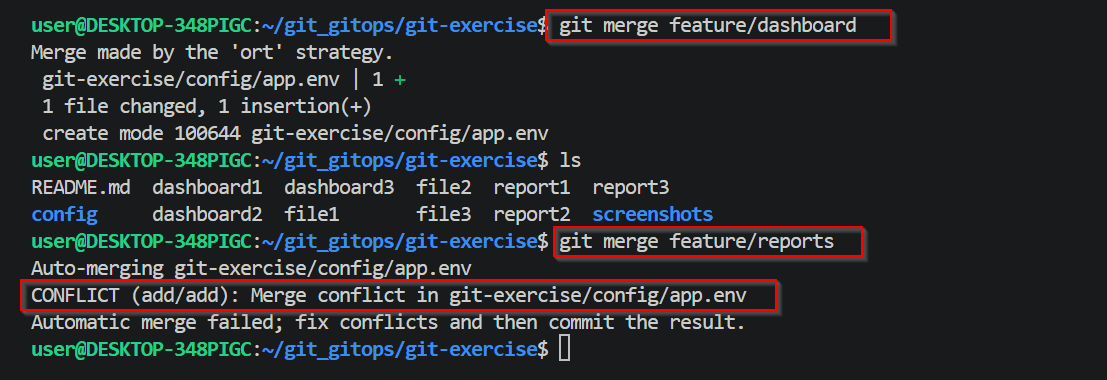
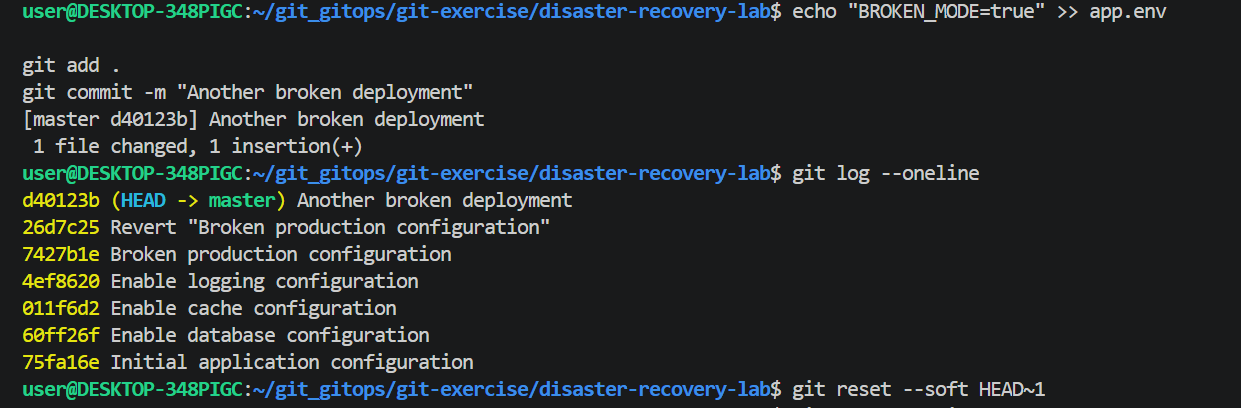
editted some files

Changed region(s): [[0.0, 0.0, 0.9521, 0.9842]]

diff --git a/git-exercise/README.md b/git-exercise/README.md
@@ -11,33 +11,34 @@ In the image below we can see that we have four branches.
 
 ![alt text](image.png)
 
-in the login branch we created three files file1, file2 and file 3
-![alt text](image.png)
+In the login branch we created three files file1, file2 and file 3
+
+![alt text](/git-exercise/screenshots/image.png)
  
 
- i have three commits in the login branch.
+we created three commits in the login branch.
 
-![alt text](image-1.png)
+![alt text](/git-exercise/screenshots/image-1.png)
 
 
-in the dashboard branch we created 3 files, dashboard1, dashboard2 and dashboard3
+In the dashboard branch we created 3 files, dashboard1, dashboard2 and dashboard3
 
-![alt text](image3.png)
+![alt text](/git-exercise/screenshots/image3.png)
 
 the git logs for feature/dashboard we have three commits
 
-![alt text](image4.png)
+![alt text](/git-exercise/screenshots/image4.png)
 
 In the reports branch we created 3 files , reports1, reports2 and report3
 
-![alt text](image5.png)
+![alt text](/git-exercise/screenshots/image5.png)
 
-the reports branch has three commits
+The feature/reports branch has three commits
 
-![alt text](image6.png)
+![alt text](/git-exercise/screenshots/image6.png)
 
 
-we merge all the branches to develop branch.
+We merge all the branches to develop branch.
 as we can see we have all the files that we created from each branch onto the develop branch.
 
 ![alt text](image.png)
@@ -53,7 +54,7 @@ As we can see, the main branch contains all the files from all the branches now.
 
 # 2. Two Students Edit Same Line (Conflict Lab)
 
-two students edit the same cofiguration line in congig/app.env
+Two students edit the same cofiguration line in congig/app.env
 Student A changes: 
 APP_MODE=development
 Student B changes:
@@ -61,14 +62,14 @@ APP_MODE=production
 
 We created congig/app.env file in the dashboard and reports branches they both contained the APP_MODE=production and APP_MODE=development.
 
-as we can see we have created a conflict because the app.env file in the two branches have different content that are somewhat similar and git doesnt know which data to keep, so it creates the conflict.
+when we tried to merge, we can see we created a conflict because the app.env file in the two branches have different content that are somewhat similar and git doesnt know which data to keep, so it creates the conflict.
 
-![alt text](image10.png)
+![alt text](/git-exercise/screenshots/image10.png)
 
-To resolve this conflict we have to edit one of the file to somethig else
+To resolve this conflict we have to edit one of the file to something else
 for our case we combined both.
 
-![alt text](image.png)
+![alt text](/git-exercise/screenshots/image7.png)
 
 
 # 3. Recover From Disaster(Reset vs Revert)
@@ -77,56 +78,56 @@ A bad deployment was pushed to production
 
 here have 5 commits and we did git revert
 
-![alt text](image-1.png)
+![alt text](/git-exercise/screenshots/image8.png)
 
 The git revert did not delete the last commit but it added a new commit
 
-![alt text](image-2.png)
+![alt text](/git-exercise/screenshots/image9.png)
 
-we created another commit with which we dit the git reset --soft HEAD~1  on
+we created another commit with which we did the git reset --soft HEAD~1  on
 
-![alt text](image-3.png)
+![alt text](/git-exercise/screenshots/image10.png)
 
-we can see that this time the commit got deleted but when you do git status files changes remain staged.
+We can see that this time the commit got deleted but when you do git status files changes remain staged.
 
-![alt text](image-4.png)
+![alt text](/git-exercise/screenshots/image11.png)
 
-we did another commit and we used git rest --hard HEAD~1 this time we removed the commit as we can see the git status, the staged changes were also removed, the working directory changes deleted permanently..
+We did another commit and we used git reset --hard HEAD~1 this time we removed the commit as we can see the git status, the staged changes were also removed, the working directory changes deleted permanently..
 
-![alt text](image-5.png)
+![alt text](/git-exercise/screenshots/image12.png)
 
-the difference between git revert, git reset --soft and git reset --hard is that git revert does not delete the commits but adds a new commit, git reset --soft , removes the commits but does not remove it from the staging face, git reset --hard removes the commit permanently,from the staging,and the working directory.
+The difference between git revert, git reset --soft and git reset --hard is that git revert does not delete the commits but adds a new commit, git reset --soft , removes the commits but does not remove it from the staging face, git reset --hard removes the commit permanently,from the staging,and the working directory.
 
 
 # 4. Simulated Team Collaboration Workflow.
 
-we used a repository called JosephKimiri, we forked it to make a copy to our repository so we can make changes.
+We used a repository called JosephKimiri, we forked it to make a copy to our repository so we can make changes.
 
-![alt text](image-6.png)
+![alt text](/git-exercise/screenshots/image13.png)
 
 we copied the url to that forked repository.
 
-![alt text](image-7.png)
+![alt text](/git-exercise/screenshots/image14.png)
 
 After that we git cloned the repo to our local repo, we can see that josephkimiri has been cloned to our local repository.
 
-![alt text](image-8.png)
+![alt text](/git-exercise/screenshots/image15.png)
 
 we created a feature branch feature/timer.
 
-![alt text](image-9.png)
+![alt text](/git-exercise/screenshots/image16.png)
 
 we created file on the feature branch and we have to push the changes to the remote repo.
 
-![alt text](image-10.png)
+![alt text](/git-exercise/screenshots/image17.png)
 
 after pushing on the git repository this is what we have, to pull and compare 
 
-![alt text](image-11.png)
+![alt text](/git-exercise/screenshots/image18.png)
 
 we added a comment to our pull request
 
-![alt text](image-12.png)
+![alt text](/git-exercise/screenshots/image19.png)
 
 we created a ruleset for the github repository.
 
@@ -136,7 +137,7 @@ we created a ruleset for the github repository.
 
 This lab we created 7 commits that were messy and then used rebase to squash some commits ie combined some commits.and rewrote others
 
-![alt text](image.png)
+![alt text](/git-exercise/screenshots/image.png)
 
 Merge  Workflow
 